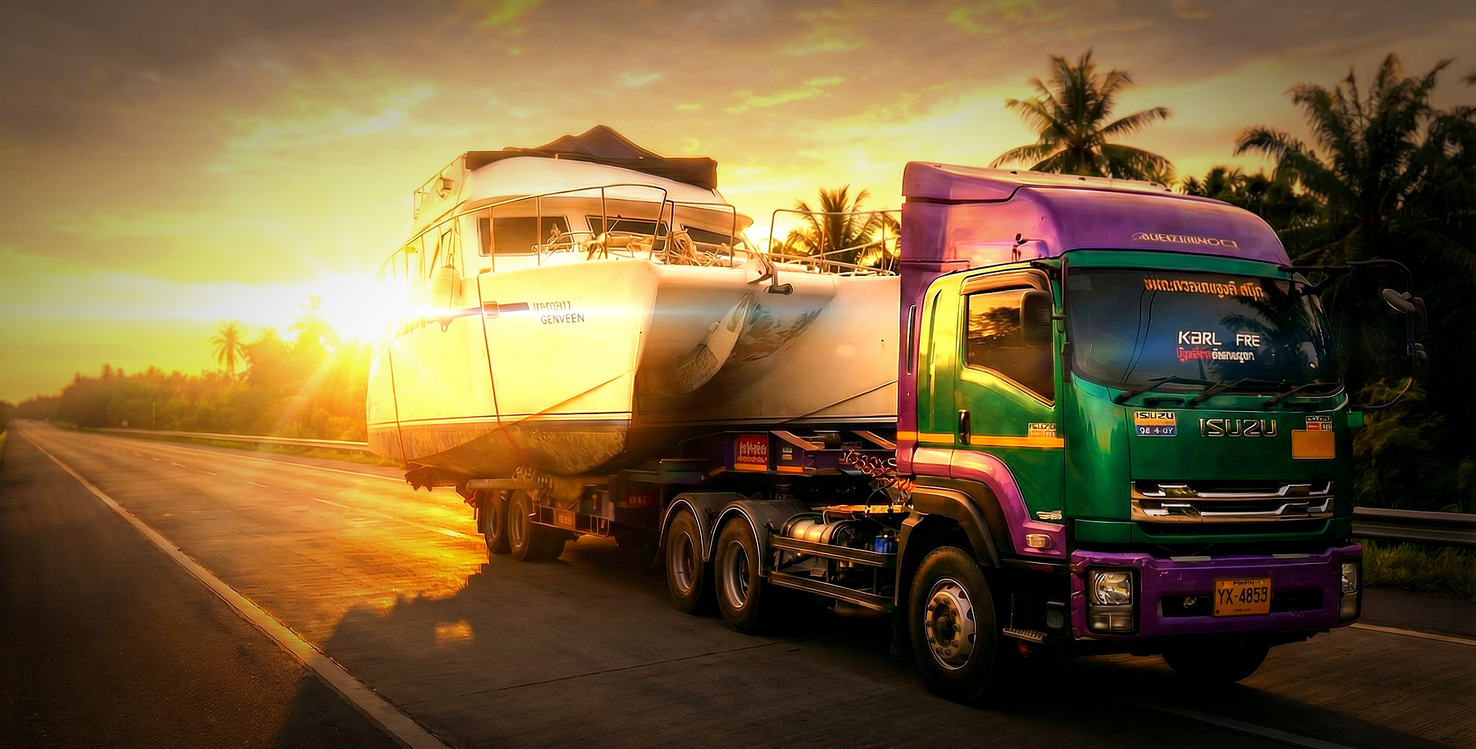
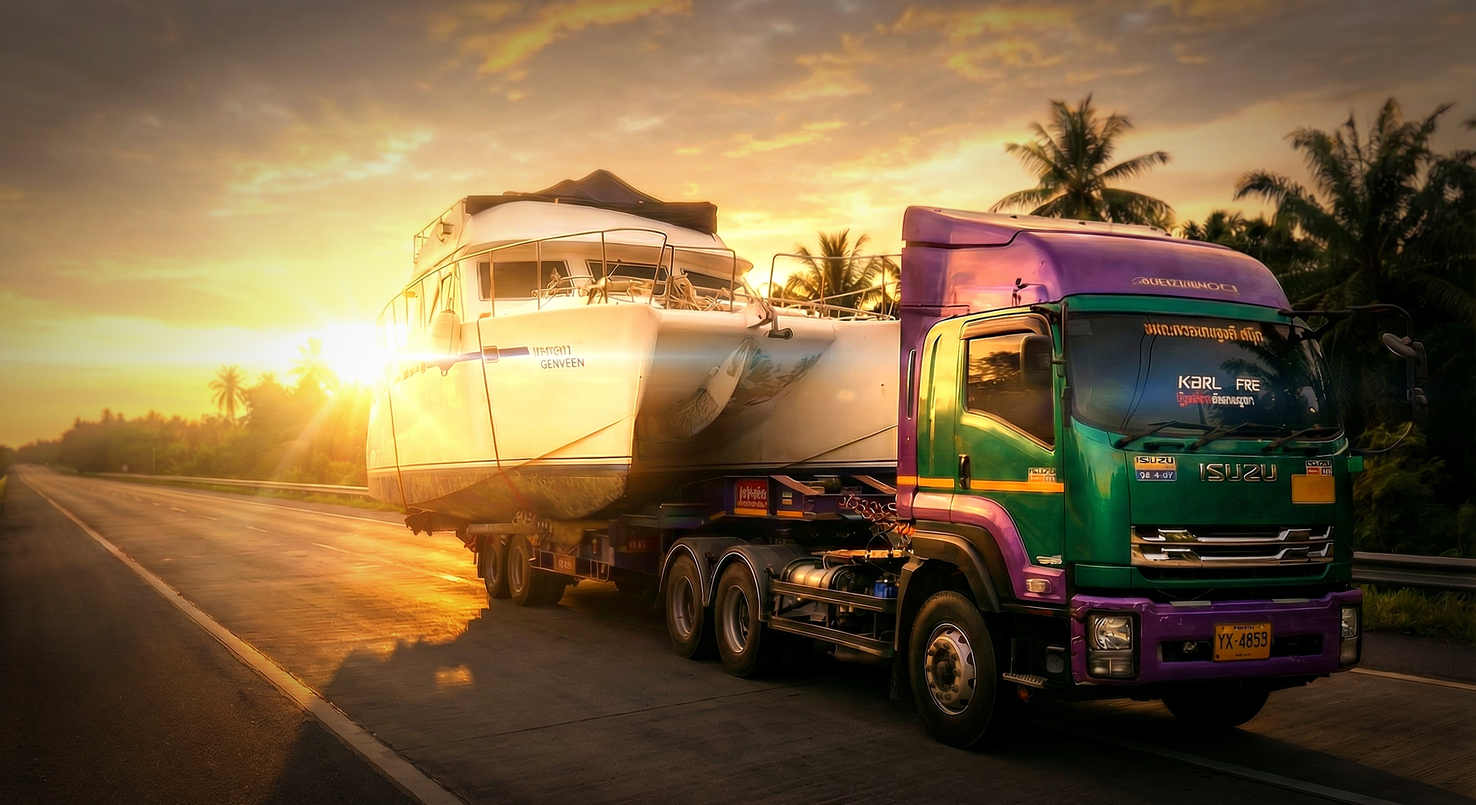
Hero: natural saturation, zoomed-out via background-size 115%, clean neutral overlay

diff --git a/client/src/pages/Home.tsx b/client/src/pages/Home.tsx
@@ -251,8 +251,8 @@ export default function Home() {
 
       {/* ── HERO ──────────────────────────────────────────────────── */}
       <section
-        className="relative min-h-screen bg-cover bg-center flex items-center justify-center overflow-hidden"
-        style={{ backgroundImage: `url('${heroImage}')`, backgroundAttachment: "fixed" }}
+        className="relative min-h-screen flex items-center justify-center overflow-hidden"
+        style={{ backgroundImage: `url('${heroImage}')`, backgroundAttachment: "fixed", backgroundSize: "115%", backgroundPosition: "center 40%" }}
       >
         {/* Darkened overlay — neutral dark, no colour tint, preserves photo warmth */}
         <div className="absolute inset-0" style={{ background: "linear-gradient(180deg, rgba(0,0,0,0.52) 0%, rgba(0,0,0,0.35) 55%, rgba(0,0,0,0.55) 100%)" }} />
